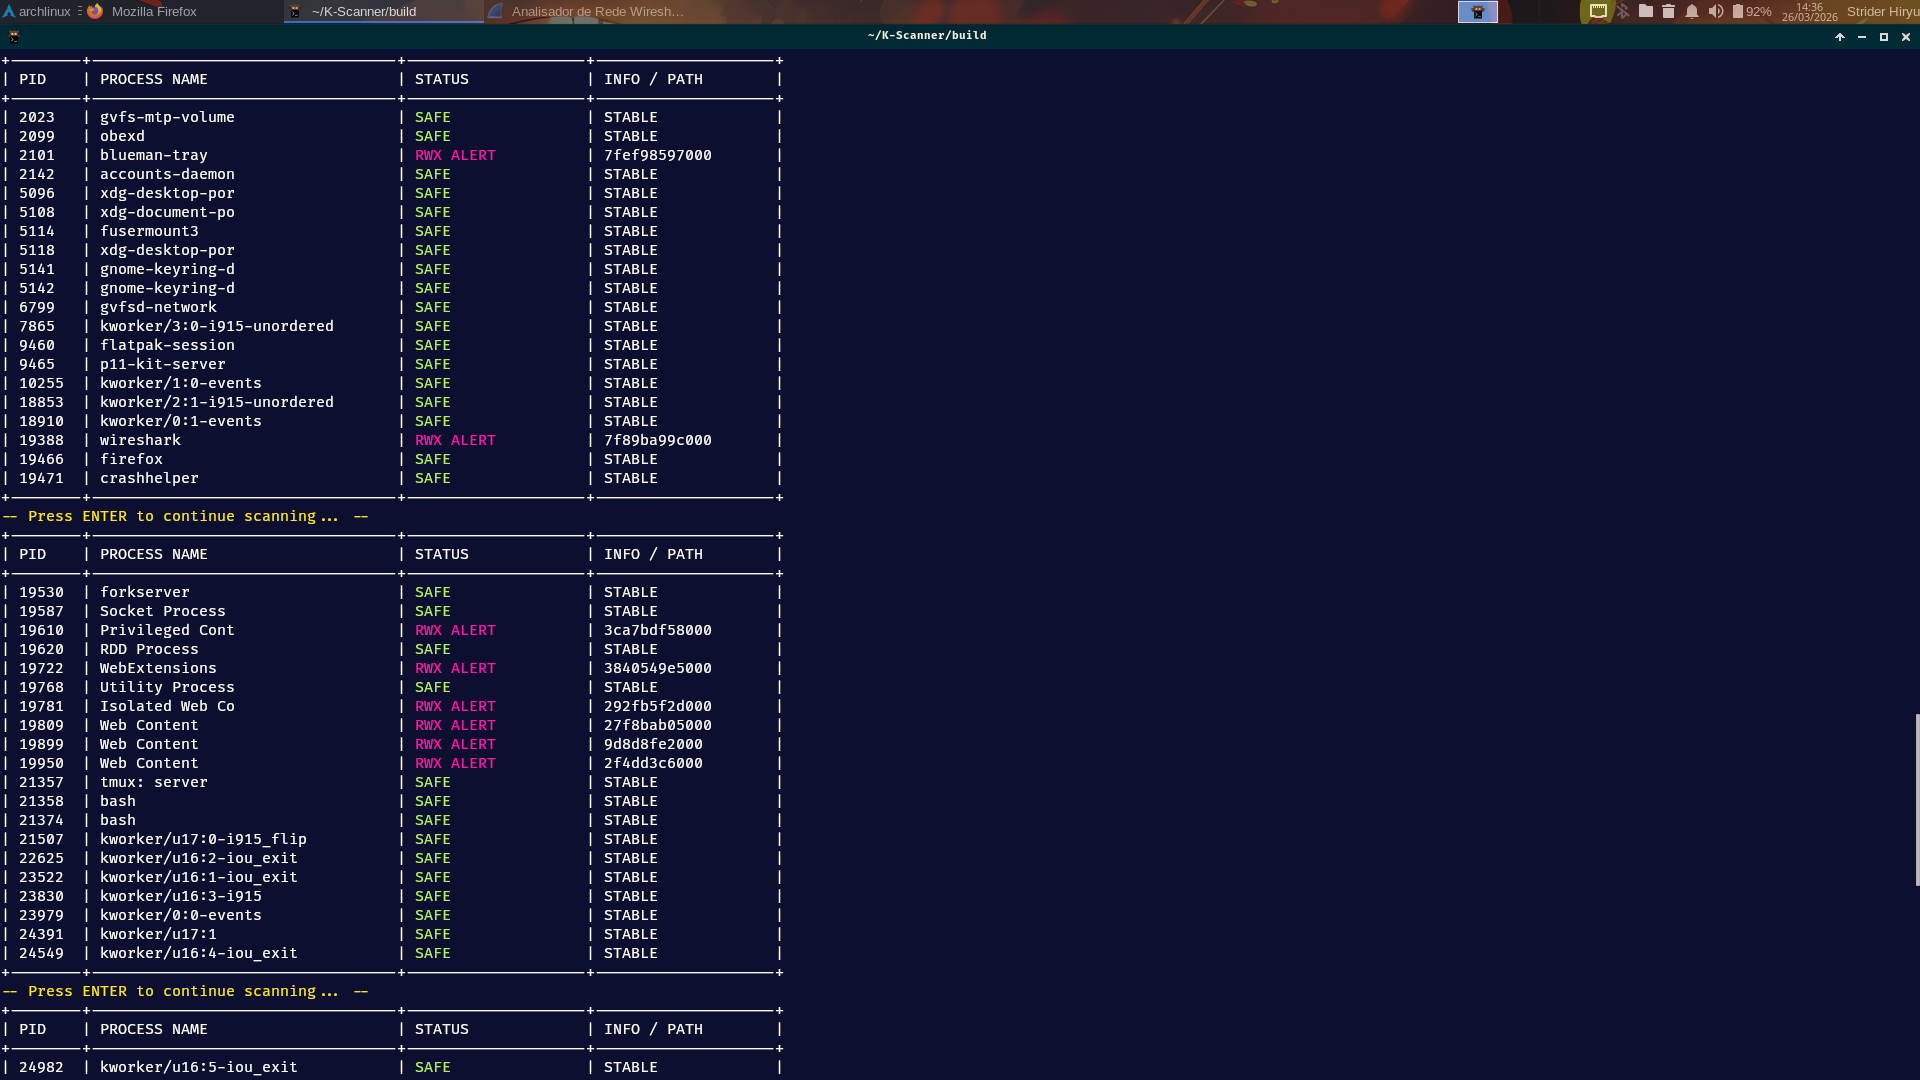
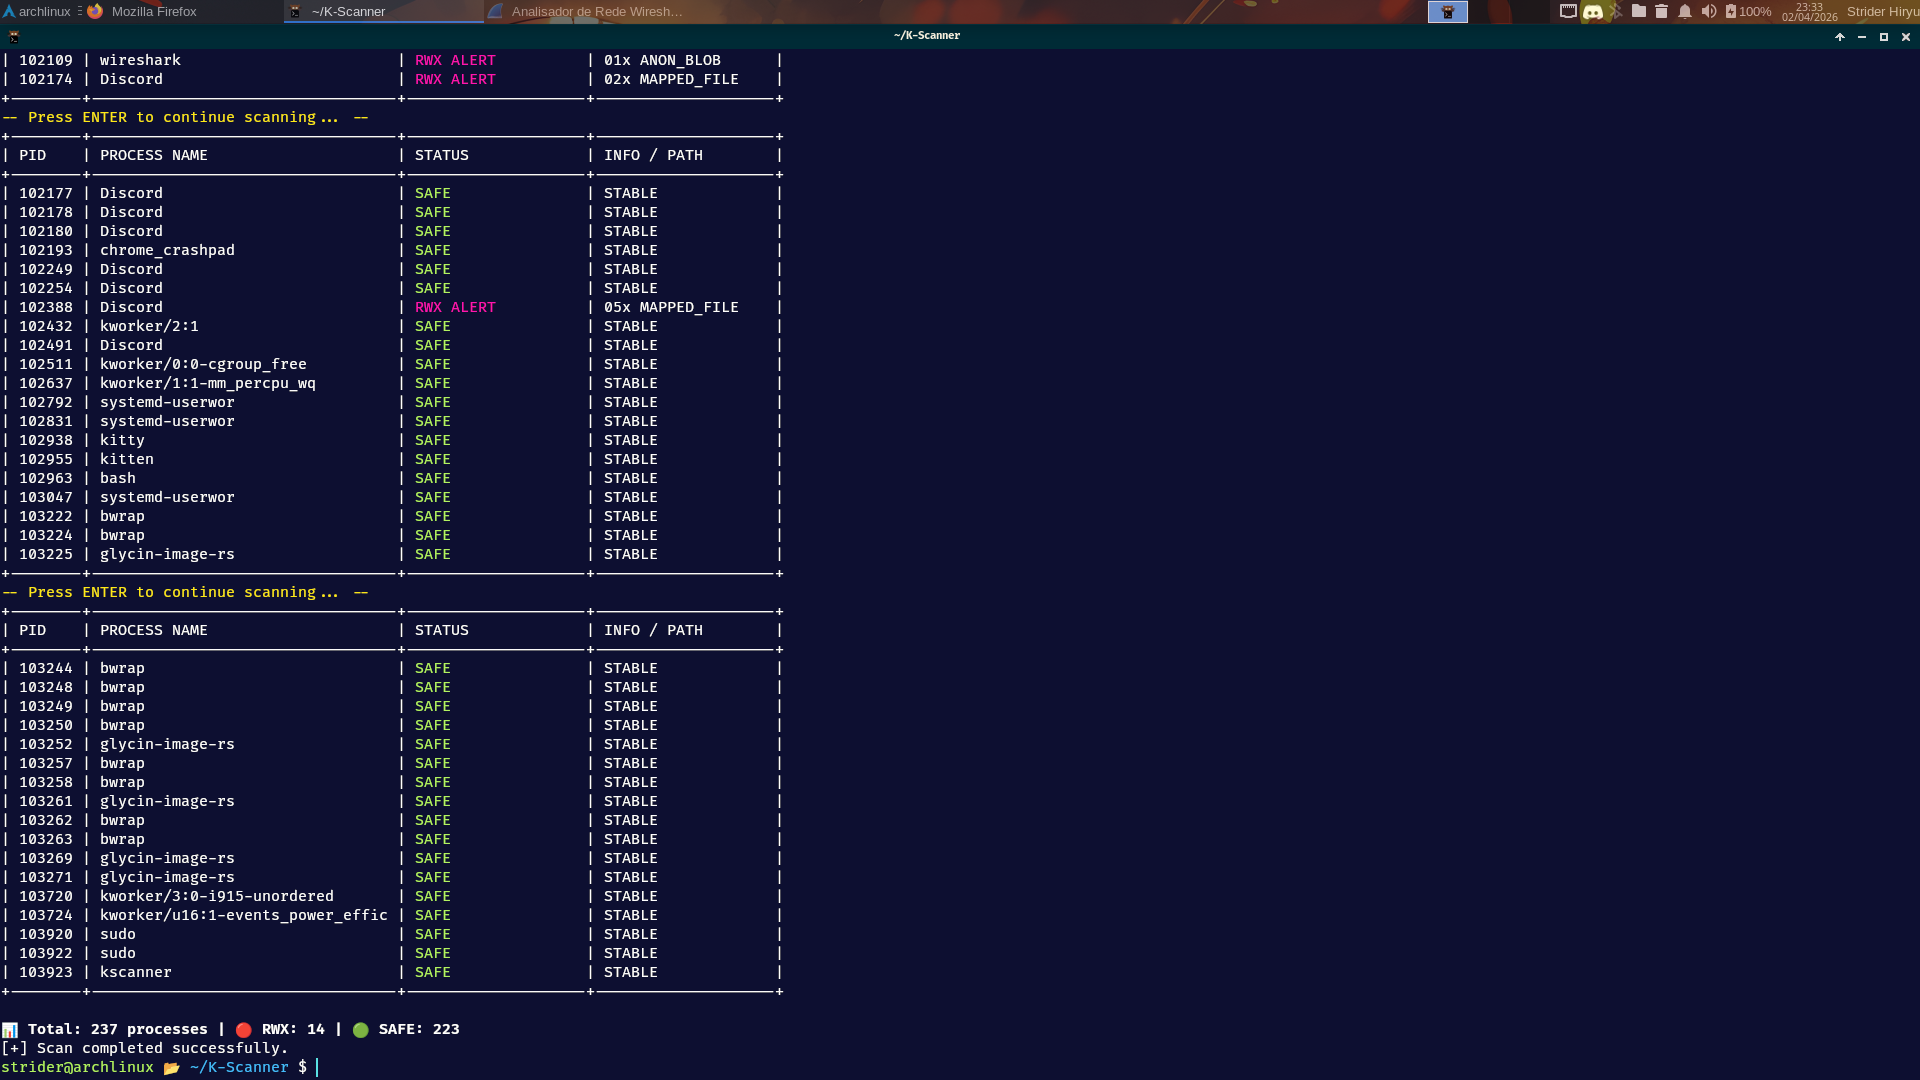
docs: update README with forensic workflow and new screenshots

diff --git a/README.md b/README.md
@@ -65,12 +65,9 @@ The scanner operates through read-only metadata inspection and does not rely on 
 +--------+----------------------------------+--------------------+--------------------+
 |  PID   | PROCESS NAME                     | STATUS             | INFO / PATH        |
 +--------+----------------------------------+--------------------+--------------------+
-| 2327   | xdg-desktop-por                  | SAFE               | 0x00000000         |
-| 2378   | Privileged Cont                  | RWX ALERT          | 38113397b000       |
-| 2497   | WebExtensions                    | RWX ALERT          | 1dcb66314000       |
-| 2557   | Isolated Web Co                  | RWX ALERT          | 3da6521ae000       |
-| 2708   | Web Content                      | RWX ALERT          | 32071f8e1000       |
-| 3021   | bash                             | SAFE               | 0x00000000         |
+| 102109 | wireshark                        | RWX ALERT          | 01x ANON_BLOB      |
+| 102174 | Discord                          | RWX ALERT          | 02x MAPPED_FILE    |
+| 102388 | Discord                          | RWX ALERT          | 05x MAPPED_FILE    |
 +--------+----------------------------------+--------------------+--------------------+
 ```
 
@@ -80,10 +77,10 @@ The scanner operates through read-only metadata inspection and does not rely on 
 *1- Initial System Mapping. Startup of the Live Forensic Process Analysis Mode, performing real-time memory scanning of core system processes.*
 
 ![RWX Detection](./Imagens/kscanner2.png)
-*2- Behavioral Analysis & RWX Detection. Identification of suspicious memory regions. The tool successfully flags processes with Read-Write-Execute permissions, providing the specific memory offset for forensic investigation.*
+*2- Behavioral Analysis & Contextual Detection. O K-Scanner agora categoriza regiões suspeitas como ANON_BLOB (comum em shellcodes) ou MAPPED_FILE (comum em motores JIT como Firefox/Discord).*
 
 ![Forensic Summary](./Imagens/kscanner3.png)
-*3- Summary & Integrity Verification. Final scan report showing the total count of safe vs. alerted processes. On the right, the SHA256 checksum ensures the forensic integrity of the generated memory dump.*
+*3- Forensic Workflow via Tmux. Demonstração da extração de memória, verificação de integridade com SHA256 e inspeção de strings/hexadecimal para análise de payloads.*
 
 ## ● Features
 
@@ -126,30 +123,32 @@ Use `strings` or `hexdump` on the generated dump to identify suspicious payloads
 Once **K-Scanner** identifies a suspicious **RWX** region, it automatically extracts its raw content to the `build/dumps/` directory. These artifacts are essential for offline forensic investigation.
 
 #### 1. Integrity Verification (Hashing)
-
-As you are already in the `build/` directory from the previous step:
-
 ```bash
 sha256sum dumps/*.bin
 ```
 
 ### 2. Example for a specific dump (as seen in screenshots)
 ```bash
-sha256sum dumps/memory_dump.bin
+sha256sum dumps/pid_101554_2dace8f1b000.bin
 ```
 
 #### 3. String Extraction
 
-The scanner automatically names dumps using the Process ID (PID). Search for human-readable indicators such as URLs, IP addresses, or obfuscated commands:
+Search for human-readable indicators such as URLs, IP addresses, or obfuscated commands:
 
-## ● Example using a generic PID dump:
+## ● General search for all dumps
 ```bash
 strings dumps/pid_*.bin | less
 ```
 
-## ● Example using the dump shown in the screenshots:
+## ● Targeted search on the alerted process dump from the example
 ```bash
-strings dumps/memory_dump.bin | less
+strings dumps/pid_101554_2dace8f1b000.bin | head -n 15
+```
+
+## ● Hexadecimal Analysis
+```bash 
+hexdump -C dumps/pid_101554_2dace8f1b000.bin | head -n 10
 ```
 
 ## ● Deployment